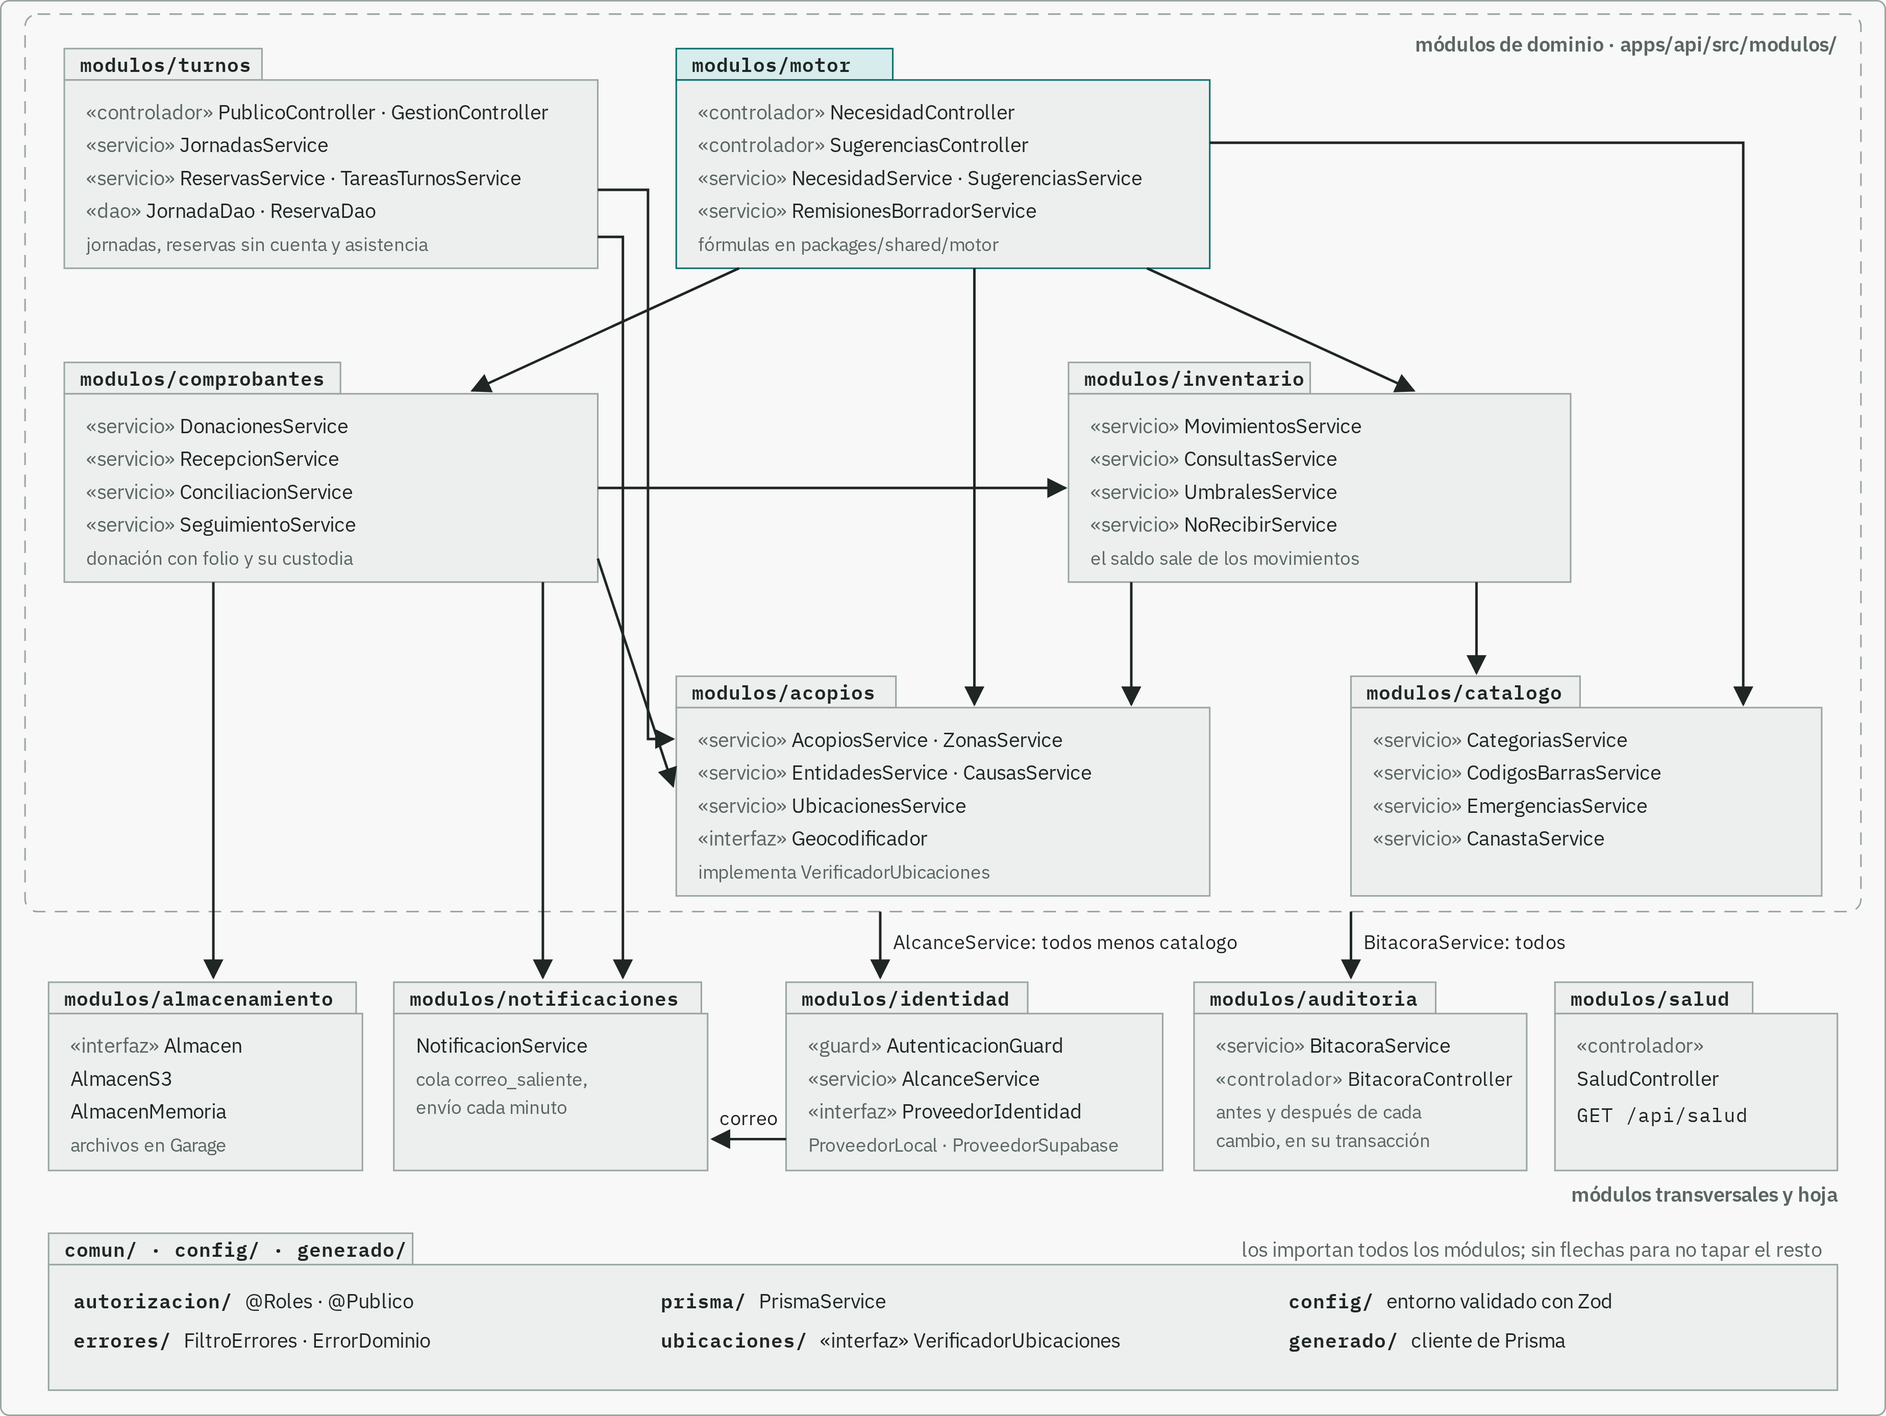
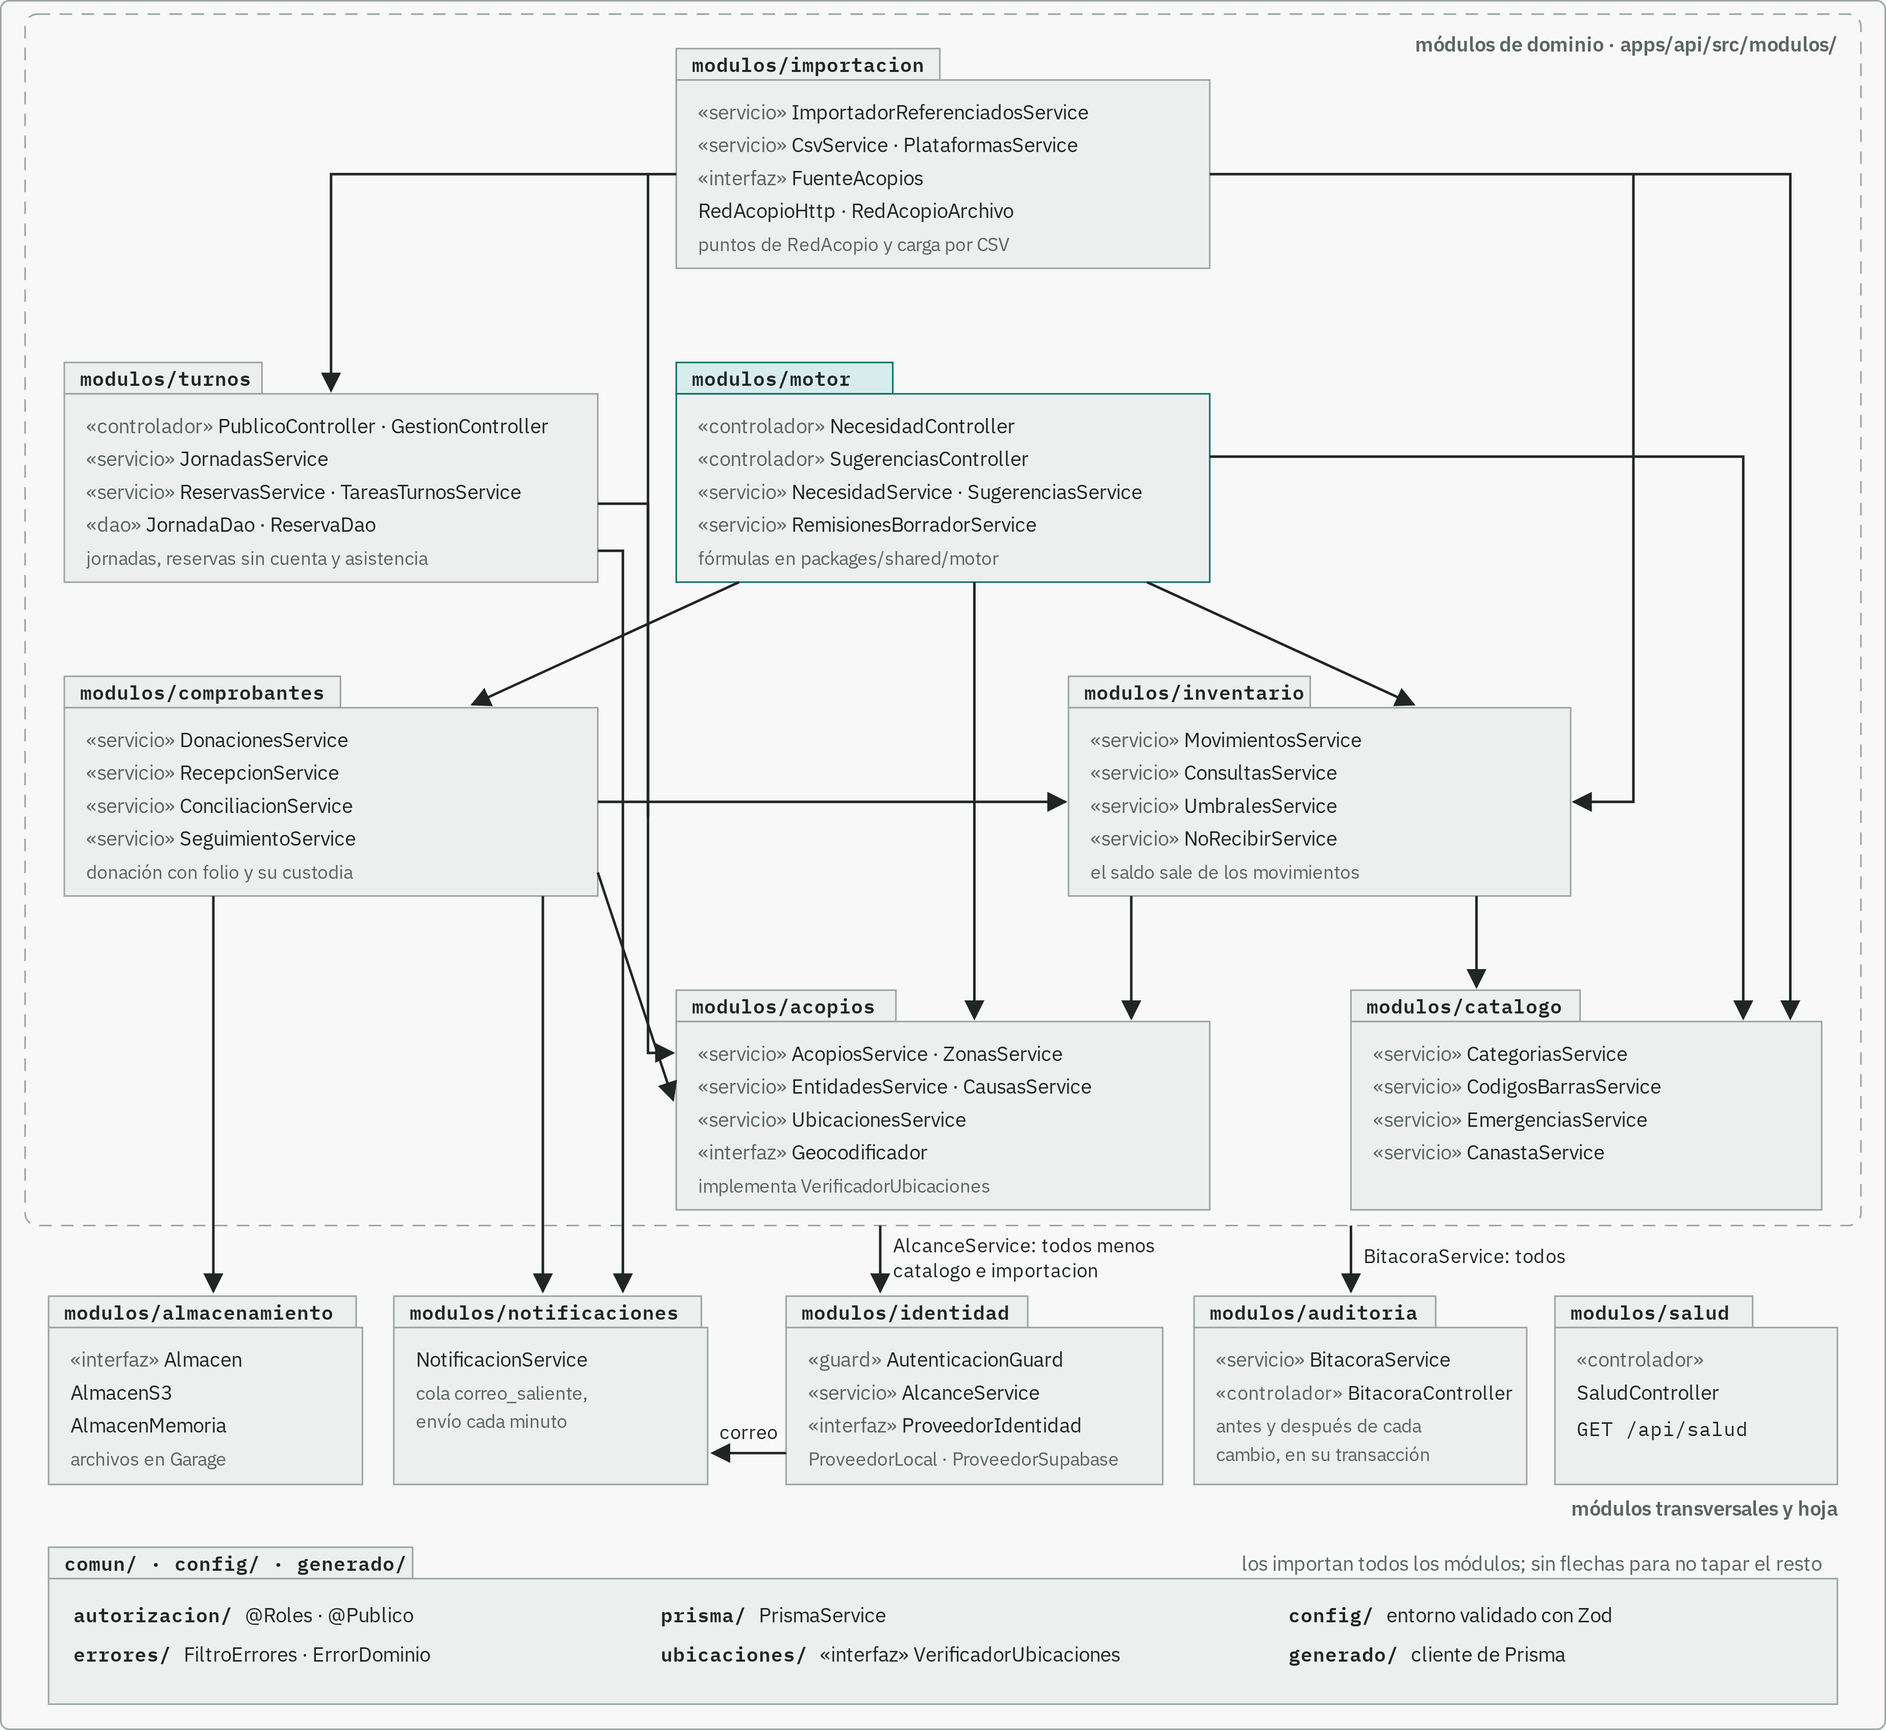
Diagramas: paquetes de la API con importacion, medido el 19 de octubre
importacion va arriba de todo, con flechas a turnos, inventario, acopios y
catálogo. vista-general.md fecha la medición y quita una frase que ya no era
cierta. Suma el informe de la sesión, la fila 4 del plan y los recorridos que
pasaron contra el servidor.

diff --git a/docs/02-arquitectura/diagramas/paquetes.html b/docs/02-arquitectura/diagramas/paquetes.html
@@ -89,7 +89,7 @@ figcaption p { color: var(--muted); }
         <text x="1160" y="62" text-anchor="end" style="font:13px var(--sans);fill:var(--muted)">NestJS · monolito modular</text>
         <rect x="810" y="74" width="340" height="52" rx="3" style="fill:var(--inner);stroke:var(--pkg-line)"/>
         <text x="822" y="96" style="font:600 13px var(--mono);fill:currentColor">src/modulos/</text>
-        <text x="822" y="115" style="font:13px var(--sans);fill:var(--muted)">10 módulos: ver el diagrama 2</text>
+        <text x="822" y="115" style="font:13px var(--sans);fill:var(--muted)">12 módulos: ver el diagrama 2</text>
         <rect x="810" y="140" width="340" height="56" rx="3" style="fill:var(--inner);stroke:var(--pkg-line)"/>
         <text x="822" y="163" style="font:600 13px var(--mono);fill:currentColor">src/comun/ · src/config/</text>
         <text x="822" y="182" style="font:13px var(--sans);fill:var(--muted)">autorización, errores, PrismaService</text>
@@ -157,15 +157,35 @@ figcaption p { color: var(--muted); }
   <figure>
     <h2>2. Paquetes de la API</h2>
     <div class="lamina">
-      <svg viewBox="0 0 1200 900" role="img" aria-label="Los módulos de dominio de la API se apilan en capas: motor y turnos arriba, luego comprobantes e inventario, luego acopios y catálogo. Todos importan hacia abajo; ningún módulo de abajo importa a uno de arriba.">
+      <svg viewBox="0 0 1200 1100" role="img" aria-label="Los módulos de dominio de la API se apilan en capas: importacion arriba, luego motor y turnos, luego comprobantes e inventario, luego acopios y catálogo. Todos importan hacia abajo; ningún módulo de abajo importa a uno de arriba.">
         <defs>
           <marker id="m2" viewBox="0 0 10 10" refX="9" refY="5" markerWidth="8" markerHeight="8" orient="auto-start-reverse"><path d="M0,0 L10,5 L0,10 z" fill="currentColor"/></marker>
         </defs>
 
         <!-- grupo de dominio -->
-        <rect x="15" y="8" width="1170" height="572" rx="8" style="fill:none;stroke:var(--pkg-line)" stroke-dasharray="8 6"/>
+        <rect x="15" y="8" width="1170" height="772" rx="8" style="fill:none;stroke:var(--pkg-line)" stroke-dasharray="8 6"/>
         <text x="1170" y="32" text-anchor="end" style="font:600 13px var(--sans);fill:var(--muted)">módulos de dominio · apps/api/src/modulos/</text>
 
+        <!-- importacion: nadie lo importa, por eso va arriba de todo -->
+        <rect x="430" y="30" width="168" height="20" style="fill:var(--pkg);stroke:var(--pkg-line)"/>
+        <text x="440" y="45" style="font:600 12.5px var(--mono);fill:currentColor">modulos/importacion</text>
+        <rect x="430" y="50" width="340" height="120" style="fill:var(--pkg);stroke:var(--pkg-line)"/>
+        <g style="font:13px var(--sans);fill:currentColor">
+          <text x="444" y="75"><tspan style="fill:var(--muted)">«servicio» </tspan>ImportadorReferenciadosService</text>
+          <text x="444" y="96"><tspan style="fill:var(--muted)">«servicio» </tspan>CsvService · PlataformasService</text>
+          <text x="444" y="117"><tspan style="fill:var(--muted)">«interfaz» </tspan>FuenteAcopios</text>
+          <text x="444" y="138">RedAcopioHttp · RedAcopioArchivo</text>
+          <text x="444" y="159" style="font:12px var(--sans);fill:var(--muted)">puntos de RedAcopio y carga por CSV</text>
+        </g>
+        <!-- importacion → turnos, acopios (se une a la flecha de turnos), inventario y catalogo -->
+        <g style="stroke:currentColor;fill:none" stroke-width="1.6">
+          <polyline points="430,110 210,110 210,248" marker-end="url(#m2)"/>
+          <polyline points="412,110 412,520"/>
+          <polyline points="770,110 1140,110 1140,648" marker-end="url(#m2)"/>
+          <polyline points="1040,110 1040,510 1002,510" marker-end="url(#m2)"/>
+        </g>
+
+        <g transform="translate(0,200)">
         <!-- motor -->
         <rect x="430" y="30" width="138" height="20" style="fill:var(--accent-soft);stroke:var(--accent)"/>
         <text x="440" y="45" style="font:600 12.5px var(--mono);fill:currentColor">modulos/motor</text>
@@ -311,7 +331,8 @@ figcaption p { color: var(--muted); }
           <line x1="500" y1="725" x2="453" y2="725" marker-end="url(#m2)"/>
         </g>
         <g style="font:12.5px var(--sans);fill:currentColor">
-          <text x="568" y="604">AlcanceService: todos menos catalogo</text>
+          <text x="568" y="597">AlcanceService: todos menos</text>
+          <text x="568" y="613">catalogo e importacion</text>
           <text x="868" y="604">BitacoraService: todos</text>
           <text x="476" y="716" text-anchor="middle">correo</text>
         </g>
@@ -329,10 +350,11 @@ figcaption p { color: var(--muted); }
           <text x="820" y="833"><tspan style="font:600 12.5px var(--mono)">config/ </tspan>entorno validado con Zod</text>
           <text x="820" y="858"><tspan style="font:600 12.5px var(--mono)">generado/ </tspan>cliente de Prisma</text>
         </g>
+        </g>
       </svg>
     </div>
     <figcaption>
-      <p>Las flechas son las importaciones reales entre módulos, medidas con dependency-cruiser el 18 de octubre de 2026; el CI rechaza cualquier importación que no esté permitida. Todas bajan: el motor depende de comprobantes, inventario, acopios y catálogo; turnos, de acopios y de notificaciones para sus correos; y ningún módulo de abajo importa a uno de arriba. Además de comprobantes, usan almacenamiento acopios, para los logotipos y las imágenes de las causas, y motor, para las fotos de la recepción; esas flechas no se dibujan para no cruzar las cajas.</p>
+      <p>Las flechas son las importaciones reales entre módulos, medidas con dependency-cruiser el 19 de octubre de 2026; el CI rechaza cualquier importación que no esté permitida. Todas bajan. Arriba va importacion, que ningún módulo importa: guarda en turnos, inventario, acopios y catálogo lo que llega de RedAcopio o de un CSV. El motor depende de comprobantes, inventario, acopios y catálogo; turnos, de acopios y de notificaciones para sus correos. Ningún módulo de abajo importa a uno de arriba. Para no cruzar las cajas faltan algunas flechas: comprobantes también importa catálogo, y almacenamiento lo usan, además de comprobantes, acopios para los logotipos y las imágenes de las causas, motor para las fotos de la recepción e importacion para las fotos de las plataformas.</p>
       <p><code>identidad</code> no importa <code>acopios</code>: valida las ubicaciones de una asignación con la interfaz <code>VerificadorUbicaciones</code> de <code>comun/</code>, que <code>acopios</code> implementa. Así no se forma un ciclo entre los dos.</p>
     </figcaption>
   </figure>

diff --git a/docs/05-planes/plan-de-accion.md b/docs/05-planes/plan-de-accion.md
@@ -53,9 +53,9 @@ La pieza E no se recorta porque completa HU-01, que es Must.
 | # | Qué | Issue | Fecha | Estado |
 |---|---|---|---|---|
 | 1 | Fecha de la Review del Sprint 2: el viernes 23, según la guía ([P-072](../01-requerimientos/pendientes.md)) | P-072 | 2026-10-18 | ✅ |
-| 2 | Avance 5 en el Word de OneDrive: pantallas con su flujo, patrones, registro del Sprint 2 y enlace al repositorio. Generado y revisado renderizado; faltan la captura del tablero, la del seguimiento y subirlo. Las capturas del mapa y de Causas cambiaron el 19 y hay que tomarlas de nuevo con `CAPTURAS_WORD` | #47 | 2026-10-22 | 🟡 |
+| 2 | Avance 5 en el Word de OneDrive: pantallas con su flujo, patrones, registro del Sprint 2 y enlace al repositorio. Generado y revisado renderizado; faltan la captura del tablero, la del seguimiento y subirlo. Las capturas del mapa y de Causas cambiaron el 19 y hay que tomarlas de nuevo con `CAPTURAS_WORD`. Al regenerar el Word entra también el diagrama de paquetes nuevo | #47 | 2026-10-22 | 🟡 |
 | 3 | Lo que falta del Word de avances anteriores. Del Avance 4 ya está la captura del tablero; faltan el seguimiento del 9 de octubre con su captura, las filas de Brayan, Alejandra y Michael, la retrospectiva confirmada y regenerar el Word. Del Avance 2, la revisión de redacción ([P-012](../01-requerimientos/pendientes.md)) y la captura de la vista Board | #45, #23, #21 | 2026-10-22 | ⬜ |
-| 4 | Sustentación: proyecto en ejecución sobre la demo del servidor y diagrama de paquetes. La demo ya tiene el balance de la portada, los 85 puntos de RedAcopio en el mapa, las causas con su ilustración y los logos reales de sus fundaciones, y las otras plataformas con foto al final de Causas. Falta ensayar el recorrido de la demo y regenerar el diagrama de paquetes con `importacion` | #47 | 2026-10-23 | ⬜ |
+| 4 | Sustentación: proyecto en ejecución sobre la demo del servidor y diagrama de paquetes. La demo ya tiene el balance de la portada, los 85 puntos de RedAcopio en el mapa, las causas con su ilustración y los logos reales de sus fundaciones, y las otras plataformas con foto al final de Causas. El diagrama de paquetes tiene `importacion` desde el 19, medido con dependency-cruiser. Ese día, en el servidor, pasaron los recorridos públicos y entraron las cuatro cuentas de rol. Falta que Joseph ensaye la presentación | #47 | 2026-10-23 | 🟡 |
 | 5 | Ronda de pruebas en el servidor, por rol, con los escenarios de `escenarios-por-rol.md`; cada hallazgo entra como issue `hallazgo` | #58 | 2026-10-25 | ⬜ |
 | 6 | Cierre del Sprint 2: Review historia por historia el 23, seguimiento de la semana 12 con captura y retrospectiva con una acción para el Sprint 3 | #47 | 2026-10-25 | ⬜ |
 
@@ -170,3 +170,7 @@ Sprint 3.
   fila 8 junta lo que queda (P-076, P-077 y P-078). Las filas 2 y 4 suman lo que falta para el 23:
   volver a tomar las capturas del mapa y de Causas, ensayar la demo y regenerar el diagrama de
   paquetes con `importacion`.
+- 2026-10-19: la fila 4 pasa a en curso. El diagrama de paquetes de la API suma `importacion`
+  arriba de todo, con las dependencias medidas ese día, y la página publicada quedó al día. En el
+  servidor pasaron `referenciados.mjs`, `portal-causas.mjs` y `portal-turnos.mjs`, y entraron
+  `operador1`, `operador2`, `auditor1` y `receptor1`. Falta que Joseph ensaye la presentación.

diff --git a/docs/06-operacion/sesiones/2026-10-19-diagrama-y-ensayo.md b/docs/06-operacion/sesiones/2026-10-19-diagrama-y-ensayo.md
@@ -1,0 +1,61 @@
+---
+title: "Sesión 2026-10-19 · Diagrama de paquetes y revisión de la demo"
+type: informe
+tags: [operacion, sesion]
+estado: vigente
+actualizado: 2026-10-19
+---
+
+# Sesión 2026-10-19 · Diagrama de paquetes y revisión de la demo
+
+Fila 4 del [plan de acción](../../05-planes/plan-de-accion.md), antes de la sustentación del 23.
+El diagrama de paquetes de la API ya tiene `importacion`, y en el servidor la demo responde en
+los recorridos públicos y con las cuentas de rol. Falta que Joseph ensaye la presentación.
+
+## Qué cambió
+
+| PR o commit | Qué trae |
+|---|---|
+| Rama `diagrama-paquetes-importacion` | `importacion` arriba de todo en la lámina 2 de [paquetes.html](../../02-arquitectura/diagramas/paquetes.html), con flechas a turnos, inventario, acopios y catálogo. La lámina 1 dice 12 módulos. PNG exportados de nuevo con `exportar-paquetes.mjs`. [vista-general.md](../../02-arquitectura/vista-general.md) fecha la medición el 2026-10-19 y quita una frase que ya no era cierta (`motor` sí importa `almacenamiento`) |
+
+Fuera del repositorio: la página publicada [Paquetes de Acopio](https://claude.ai/artifact/BSJbNw246Jiryztzjydreo)
+quedó igual a `paquetes.html`. Seguía en la versión del 8 de octubre, sin `turnos` ni
+`importacion`.
+
+## Pruebas
+
+- Dependencias medidas con dependency-cruiser sobre `apps/api/src`. `importacion` importa
+  acopios, almacenamiento, auditoria, catalogo, inventario y turnos, y ningún módulo la importa.
+  El resto del grafo coincide con lo dibujado, salvo `comprobantes → catalogo`, que el pie de la
+  lámina menciona sin flecha.
+- Contra `https://acopio.josephqaz.dev`, con `CAPTURAS=no`: `referenciados.mjs` 6 de 6,
+  `portal-causas.mjs` 4 de 4 y `portal-turnos.mjs` 6 de 6, sin errores de página.
+- Inicio de sesión en el servidor con `DEMO_CONTRASENA`: entran `operador1`, `operador2`,
+  `auditor1` y `receptor1`. El login del Donador por correo no se probó.
+- No se corrieron los recorridos de la consola contra el servidor: gastan la demo (aprueban
+  sugerencias, despachan) y piden la contraseña del administrador del servidor.
+
+## Decisiones
+
+Ninguna nueva.
+
+## Errores y correcciones
+
+- La primera prueba de inicio de sesión mandó el correo en `usuario` y dio 401 en las cinco
+  cuentas. El endpoint pide el nombre de usuario; con él entraron las cuatro.
+- Una parte del registro del plan y de `recorridos.md` se escribió por Bash antes de invocar
+  humanizer para esos archivos. Después se revisó el texto con humanizer.
+
+## Pendiente
+
+- Capturas del mapa y de Causas, y el Word del Avance 5 regenerado, que ahora lleva el diagrama
+  nuevo (fila 2 del [plan de acción](../../05-planes/plan-de-accion.md),
+  [#47](https://github.com/Proyecto-IngSoftware/acopio/issues/47)).
+- Ronda de pruebas por rol en el servidor (fila 5,
+  [#58](https://github.com/Proyecto-IngSoftware/acopio/issues/58)).
+
+## Depende de Joseph
+
+- Ensayar la presentación sobre la demo del servidor (fila 4 del
+  [plan de acción](../../05-planes/plan-de-accion.md),
+  [#47](https://github.com/Proyecto-IngSoftware/acopio/issues/47)).

diff --git a/docs/02-arquitectura/vista-general.md b/docs/02-arquitectura/vista-general.md
@@ -187,8 +187,8 @@ Cada caja es una carpeta del repositorio, con su ruta escrita. Adentro van las c
 interfaces y componentes que más pesan en ese paquete, con su nombre real. Una flecha
 `A → B` dice que A importa algo de B. Las dependencias entre módulos de la API salen
 del grafo que mide dependency-cruiser (`bun run --filter @acopio/api depcruise`) el
-2026-10-07, no de la tabla de arriba: `motor` todavía no importa `almacenamiento` y
-`acopios` todavía no importa `notificaciones`, aunque la tabla los permite.
+2026-10-19, no de la tabla de arriba: `acopios` todavía no importa `notificaciones`,
+aunque la tabla lo permite.
 
 Los dos diagramas se dibujan a mano en SVG en
 [diagramas/paquetes.html](diagramas/paquetes.html), que también se publica como página

diff --git a/docs/06-operacion/recorridos.md b/docs/06-operacion/recorridos.md
@@ -194,6 +194,10 @@ entra después; hay que esperar un minuto entre uno y otro.
 
 ## Últimos resultados
 
+**2026-10-19, contra el servidor de pruebas, antes de la sustentación** (`CAPTURAS=no`):
+`referenciados.mjs` 6 de 6, `portal-causas.mjs` 4 de 4 y `portal-turnos.mjs` 6 de 6, sin
+errores de página. `portal-turnos.mjs` cancela la reserva que crea, así que la demo no se gasta.
+
 **2026-10-19, plataformas en Causas y mapa por tipo** (después de #143): en local con la API
 reconstruida, `referenciados.mjs` 6 de 6, `portal-causas.mjs` 4 de 4 y `validacion-general.mjs`
 60 de 60. Contra el servidor de pruebas, `referenciados.mjs` 6 de 6.

diff --git a/docs/06-operacion/sesiones/README.md b/docs/06-operacion/sesiones/README.md
@@ -19,6 +19,7 @@ en otro lugar.
 
 | Fecha | Informe | Tema |
 |---|---|---|
+| 2026-10-19 | [2026-10-19-diagrama-y-ensayo](2026-10-19-diagrama-y-ensayo.md) | Diagrama de paquetes con importacion y revisión de la demo en el servidor |
 | 2026-10-19 | [2026-10-19-causas-y-mapa](2026-10-19-causas-y-mapa.md) | Plataformas en Causas con foto y mapa con grupos por tipo |
 | 2026-10-19 | [2026-10-19-pieza-e](2026-10-19-pieza-e.md) | Pieza E: RedAcopio, CSV y otras plataformas |
 | 2026-10-18 | [2026-10-18-estetica-piedra](2026-10-18-estetica-piedra.md) | Grises piedra, auditoría de las pantallas e íconos |
